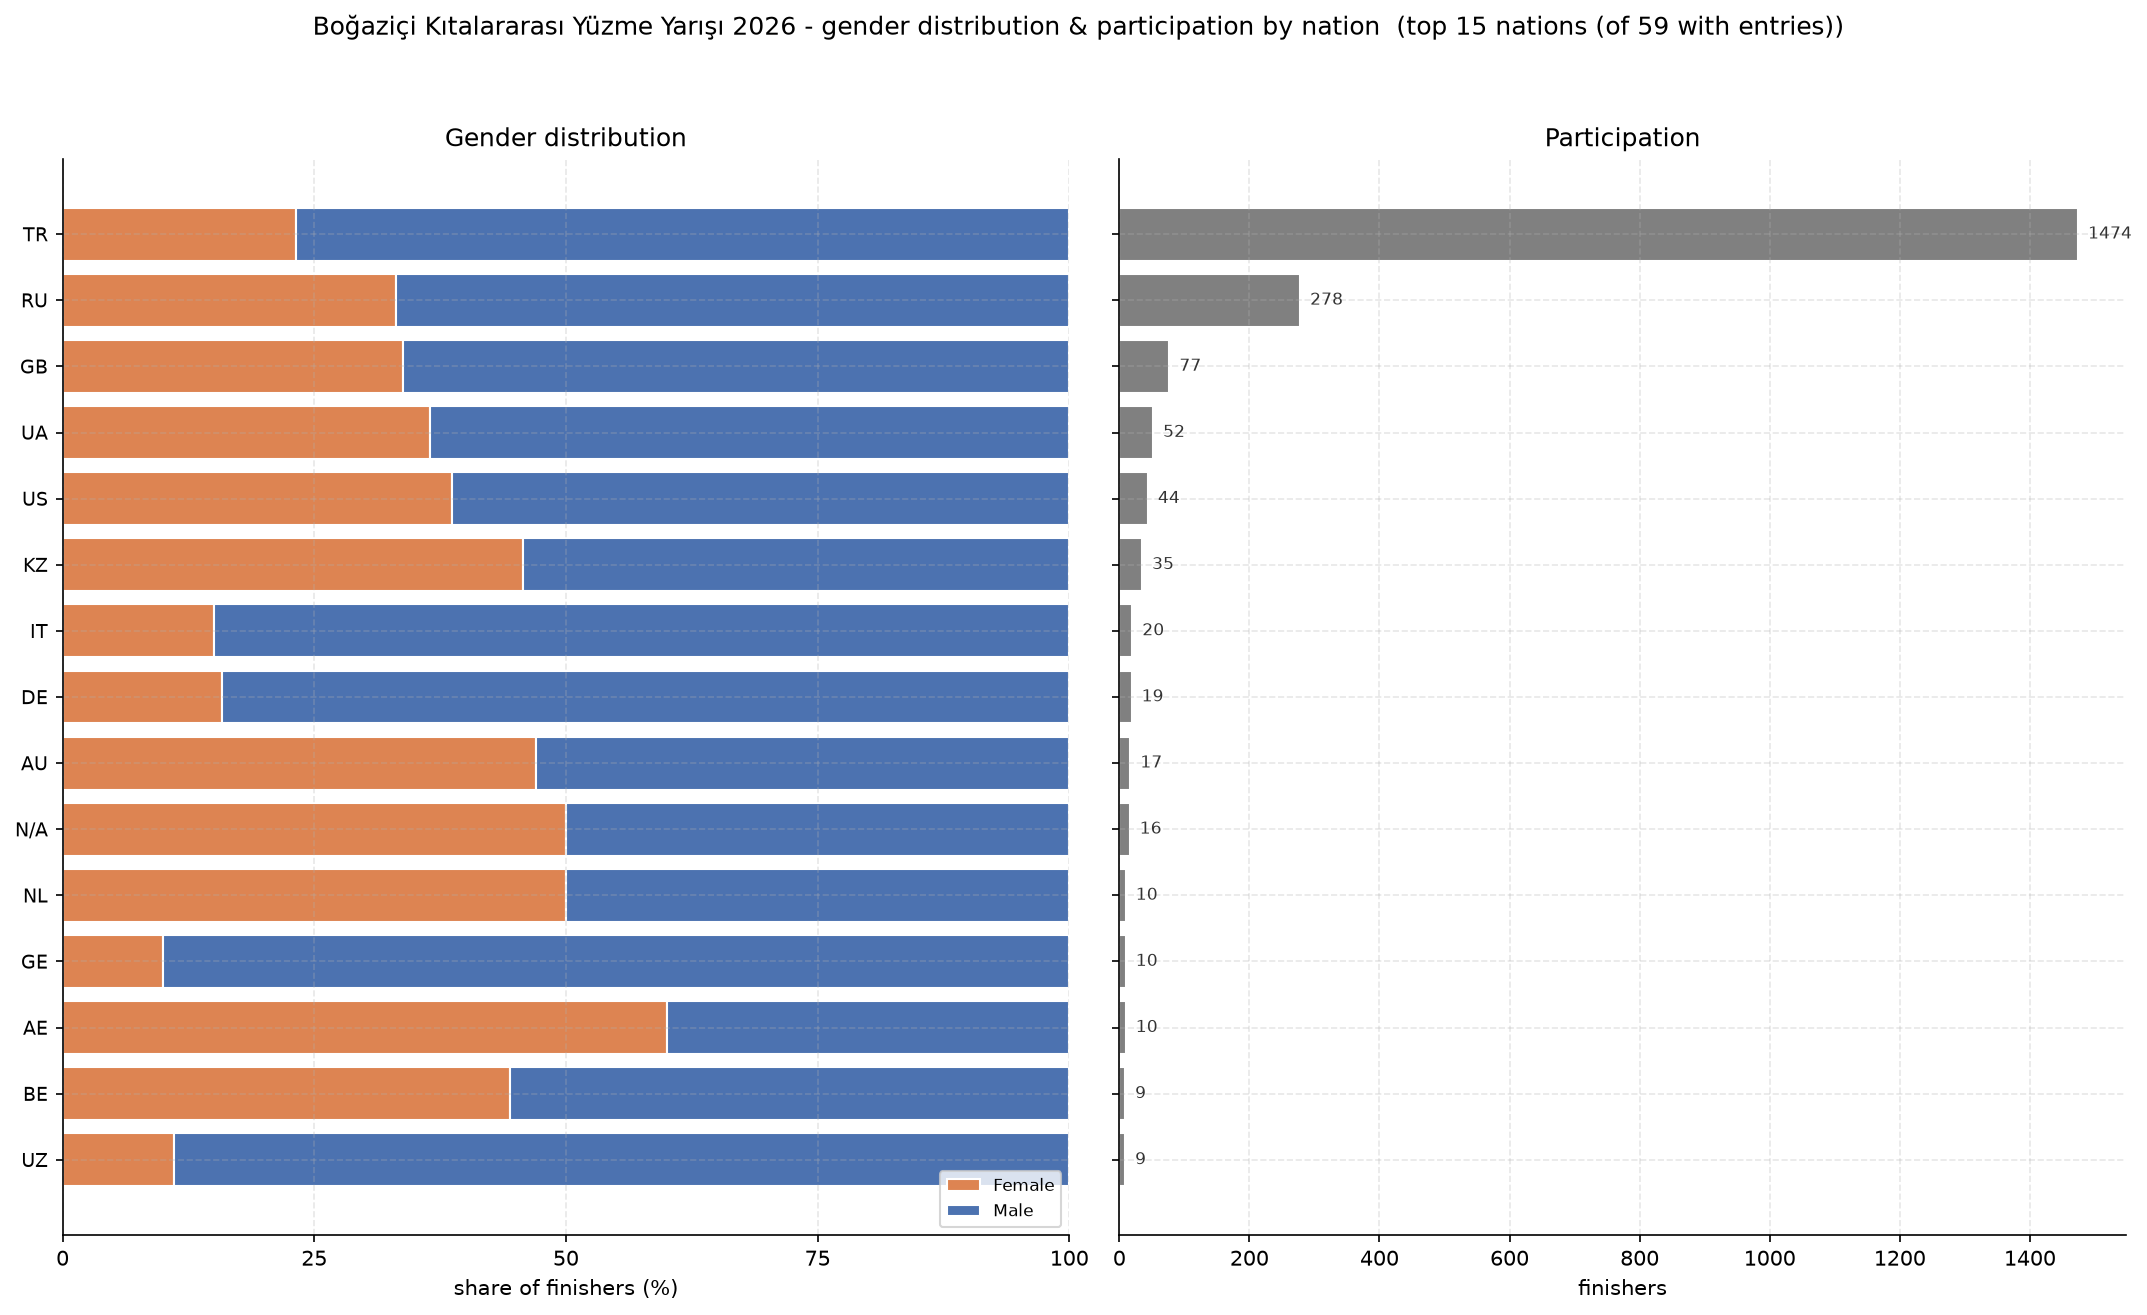
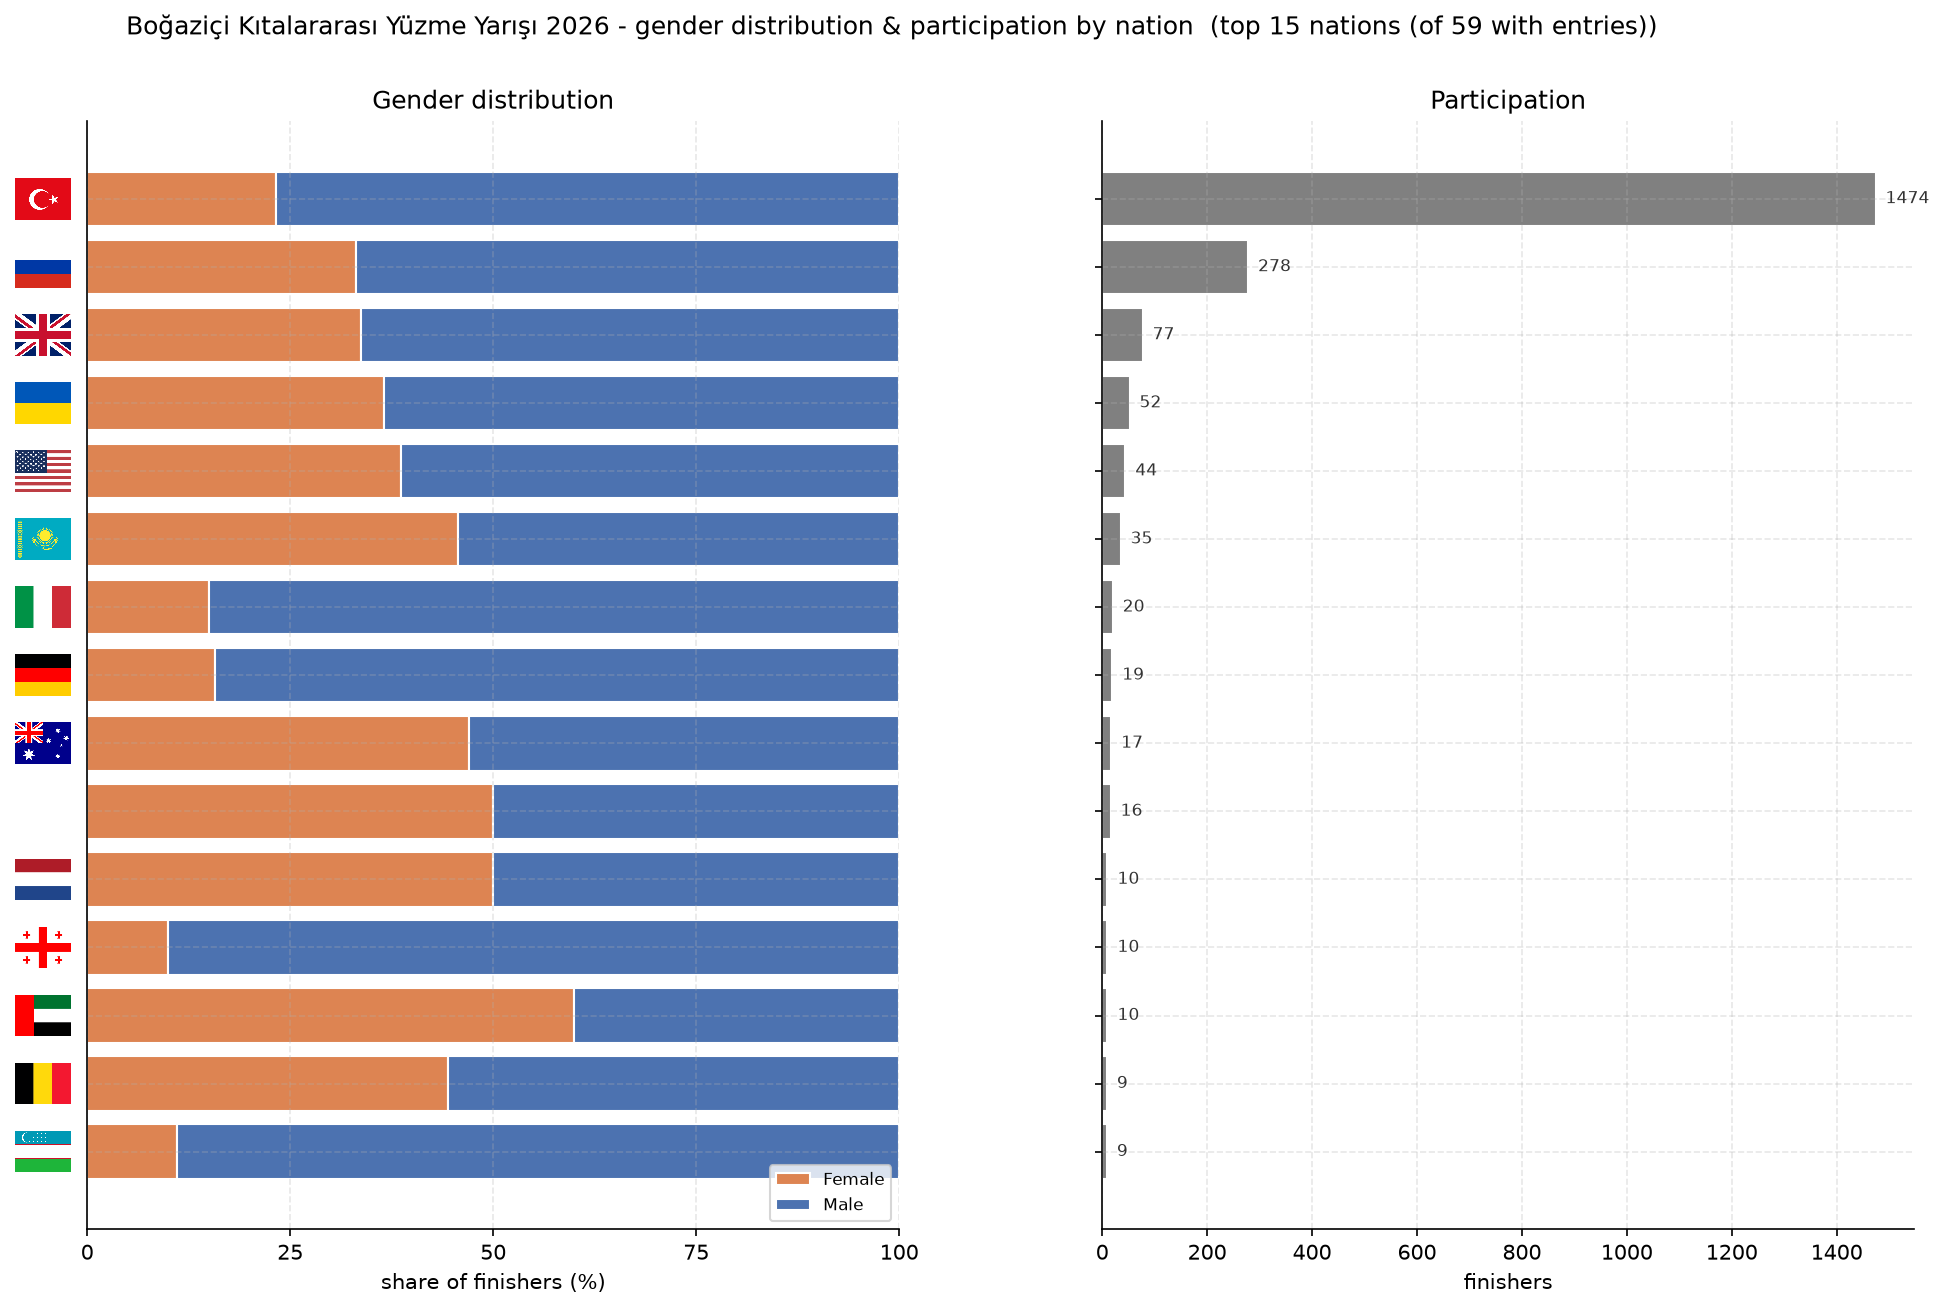
feat: replace nation codes with country flags in visualization

diff --git a/2026/istanbul/visualize_results.py b/2026/istanbul/visualize_results.py
@@ -1,13 +1,17 @@
 from __future__ import annotations
 
 import argparse
+import io
 import logging
 import re
 import sys
+import tempfile
 from pathlib import Path
 
 import numpy as np
 import pandas as pd
+import requests
+from PIL import Image
 
 import matplotlib
 
@@ -16,6 +20,7 @@ if "--show" not in sys.argv:
 import matplotlib.pyplot as plt
 import matplotlib.patches as mpatches
 from matplotlib.ticker import FuncFormatter
+from matplotlib.offsetbox import OffsetImage, AnnotationBbox
 
 logger = logging.getLogger(__name__)
 
@@ -103,6 +108,62 @@ matplotlib.rcParams.update({
     "axes.spines.right": False,
     "font.size": 10,
 })
+
+FLAG_BASE_URL = "https://my.raceresult.com/graphics/flags"
+FLAG_HEIGHT_PT = 20.0
+FLAG_GAP_PT = 8.0
+_FLAG_CACHE = {}
+
+
+def _flag_image(nation: str, cache_dir=None):
+    """Return an RGBA ndarray of a 2-letter nation's flag, or None on failure.
+
+    Flags are fetched once and cached in memory and on disk (as PNG files in
+    ``cache_dir``) so later runs do not re-download them.  Returns ``None`` for
+    pseudo codes such as ``N/A`` or when the download fails, letting callers
+    fall back to a plain text label.
+    """
+    code = (nation or "").strip().upper()
+    if not code or code == "N/A":
+        return None
+    if code in _FLAG_CACHE:
+        return _FLAG_CACHE[code]
+
+    cache_dir = Path(cache_dir) if cache_dir is not None else (
+        Path(tempfile.gettempdir()) / "bogaz_flags")
+    cache_dir.mkdir(parents=True, exist_ok=True)
+    png_path = cache_dir / f"{code}.png"
+    if png_path.exists():
+        try:
+            with Image.open(png_path) as im:
+                arr = np.asarray(im.convert("RGBA"))
+            _FLAG_CACHE[code] = arr
+            return arr
+        except Exception as exc:
+            logger.debug("flag cache read failed for %s: %s", code, exc)
+
+    try:
+        resp = requests.get(f"{FLAG_BASE_URL}/{code}.gif", timeout=10)
+        resp.raise_for_status()
+        raw = resp.content
+    except Exception as exc:
+        logger.debug("flag download failed for %s: %s", code, exc)
+        return None
+
+    try:
+        with Image.open(io.BytesIO(raw)) as im:
+            arr = np.asarray(im.convert("RGBA"))
+        try:
+            Image.fromarray(arr).save(png_path)
+        except Exception:
+            pass
+    except Exception as exc:
+        logger.debug("flag decode failed for %s: %s", code, exc)
+        return None
+
+    _FLAG_CACHE[code] = arr
+    return arr
+
 
 def view1_distribution(df, cfg, user, out_dir, show):
     times = df["swim_seconds"].to_numpy(dtype=float)
@@ -352,7 +413,21 @@ def view4_nations(df, cfg, out_dir, show):
     ax1.set_xticks([0, 25, 50, 75, 100])
     ax1.set_xlabel("share of finishers (%)")
     ax1.set_title("Gender distribution")
-    ax1.tick_params(axis="y", labelsize=9)
+    ax1.tick_params(axis="y", labelsize=9, length=0)
+
+    # Replace nation-code tick labels with country flags (text fallback).
+    ax1.set_yticks(range(len(order)))
+    ax1.set_yticklabels([""] * len(order))
+    for i, nation in enumerate(order):
+        arr = _flag_image(nation)
+        if arr is None:
+            ax1.get_yticklabels()[i].set_text(nation)
+            continue
+        im = OffsetImage(arr, zoom=FLAG_HEIGHT_PT / arr.shape[0])
+        ab = AnnotationBbox(im, (0, i), xycoords="data", xybox=(-FLAG_GAP_PT, 0),
+                            boxcoords="offset points", frameon=False, pad=0,
+                            box_alignment=(1.0, 0.5))
+        ax1.add_artist(ab)
     ax1.legend(loc="lower right", frameon=True, fontsize=8)
 
     # right: finishers
@@ -368,7 +443,7 @@ def view4_nations(df, cfg, out_dir, show):
         scope = f"top 15 nations (of {len(g)} with entries)"
     fig.suptitle(f"{cfg.name} - gender distribution & participation by nation  "
                  f"({scope})", fontsize=12)
-    fig.tight_layout(rect=(0, 0, 1, 0.95))
+    fig.subplots_adjust(left=0.13, right=0.97, top=0.90, bottom=0.07, wspace=0.25)
 
     path = out_dir / "04_nation_gender_participation.png"
     if not show:
